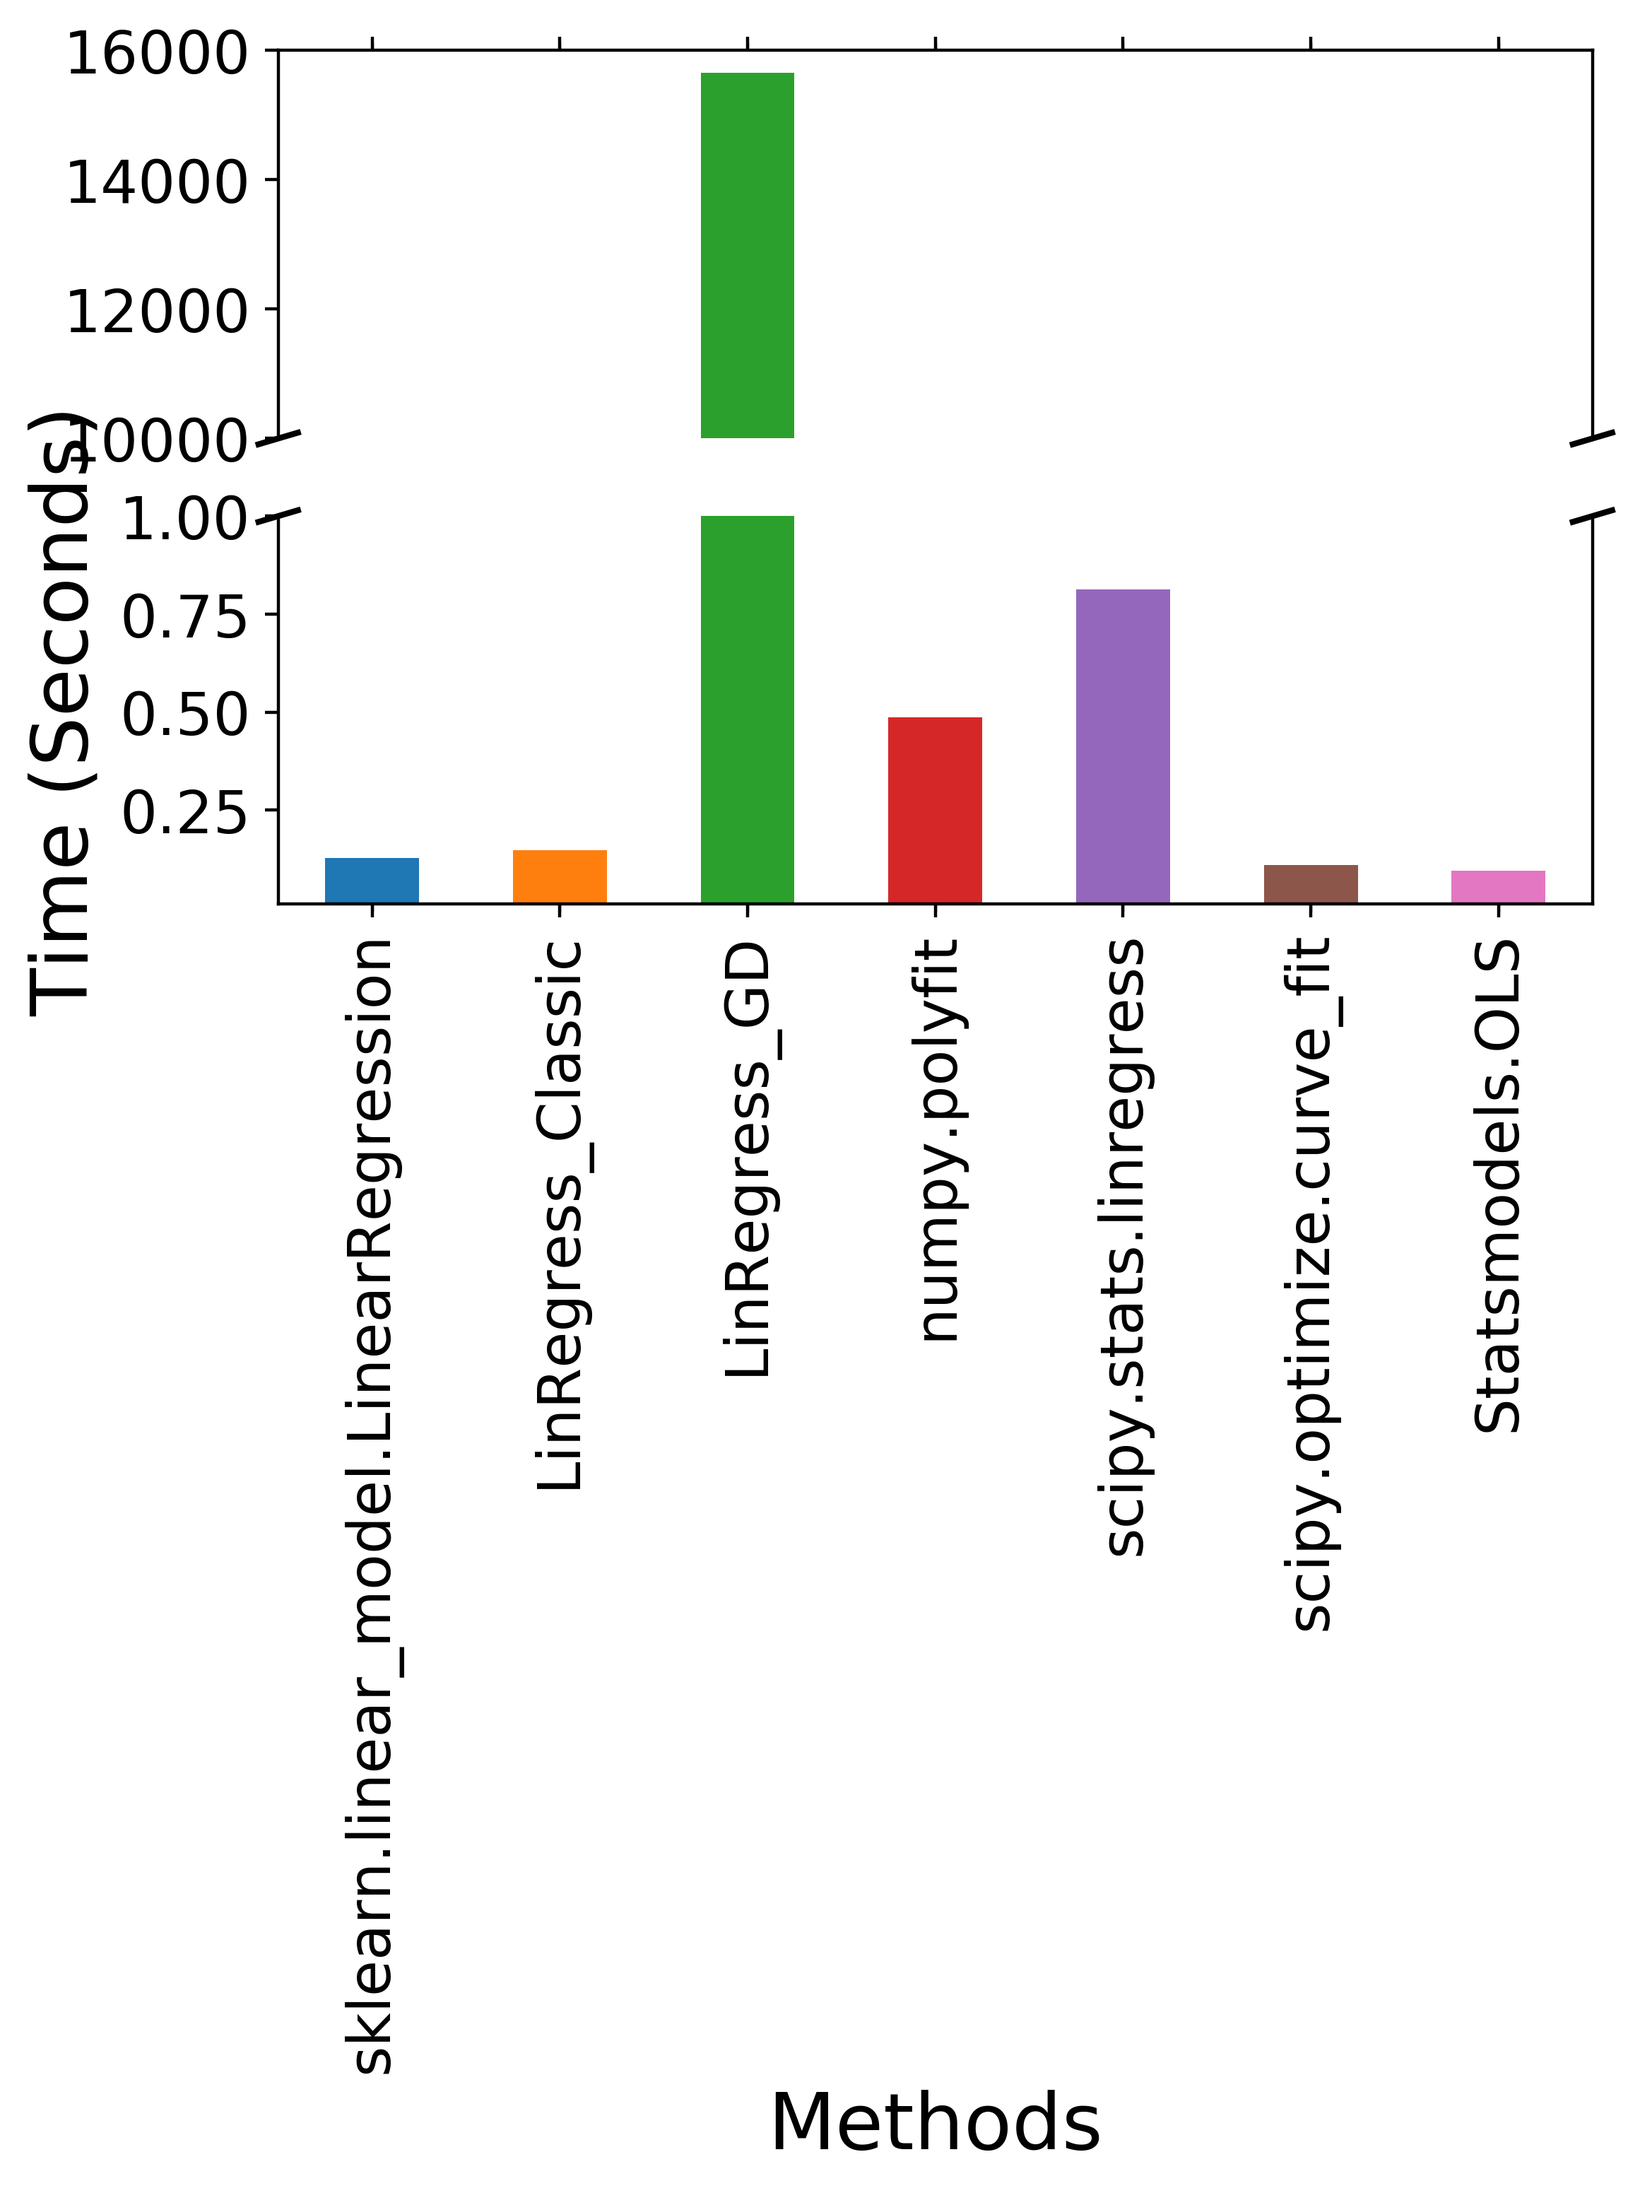
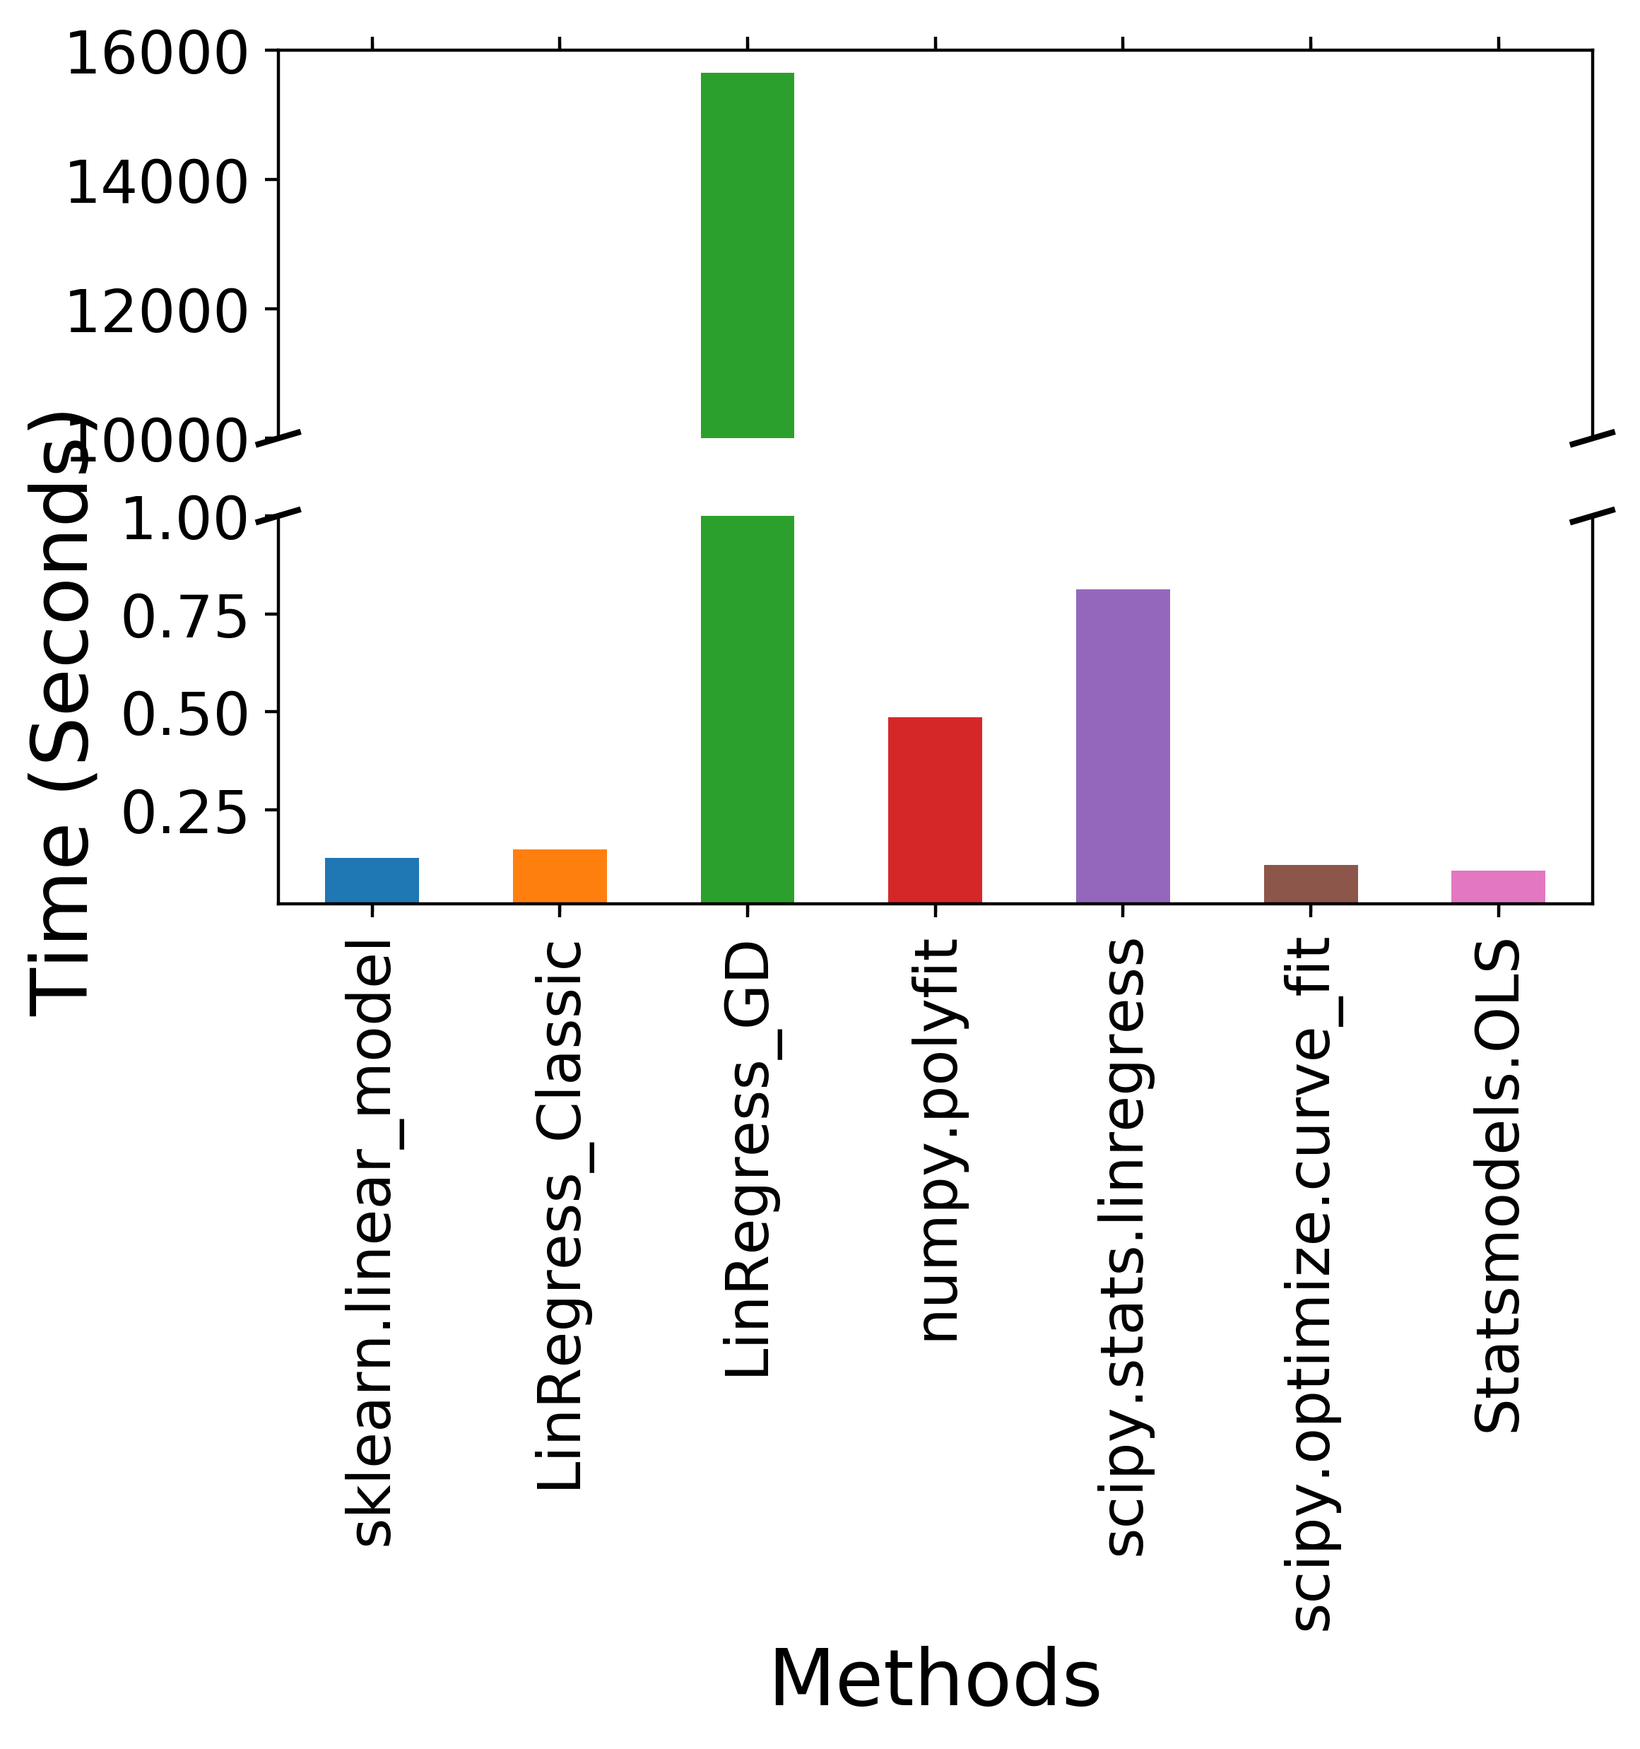
New Update

diff --git a/test.py b/test.py
@@ -7,7 +7,7 @@ Created on Fri Apr 12 21:34:38 2019
 import pandas as pd
 from matplotlib import pyplot as plt
 
-df=pd.DataFrame({'Methods':['sklearn.linear_model.LinearRegression','LinRegress_Classic','LinRegress_GD','numpy.polyfit','scipy.stats.linregress','scipy.optimize.curve_fit','Statsmodels.OLS'],
+df=pd.DataFrame({'Methods':['sklearn.linear_model','LinRegress_Classic','LinRegress_GD','numpy.polyfit','scipy.stats.linregress','scipy.optimize.curve_fit','Statsmodels.OLS'],
                  'Time':[res_sklearnTime,res_LinRegClassicTime,res_LinRegGDTime,res_PolyfitTime,res_LinregressTime,res_curevfitTime,res_olsTime]})
 
 f, axis = plt.subplots(2, 1, sharex=True)
